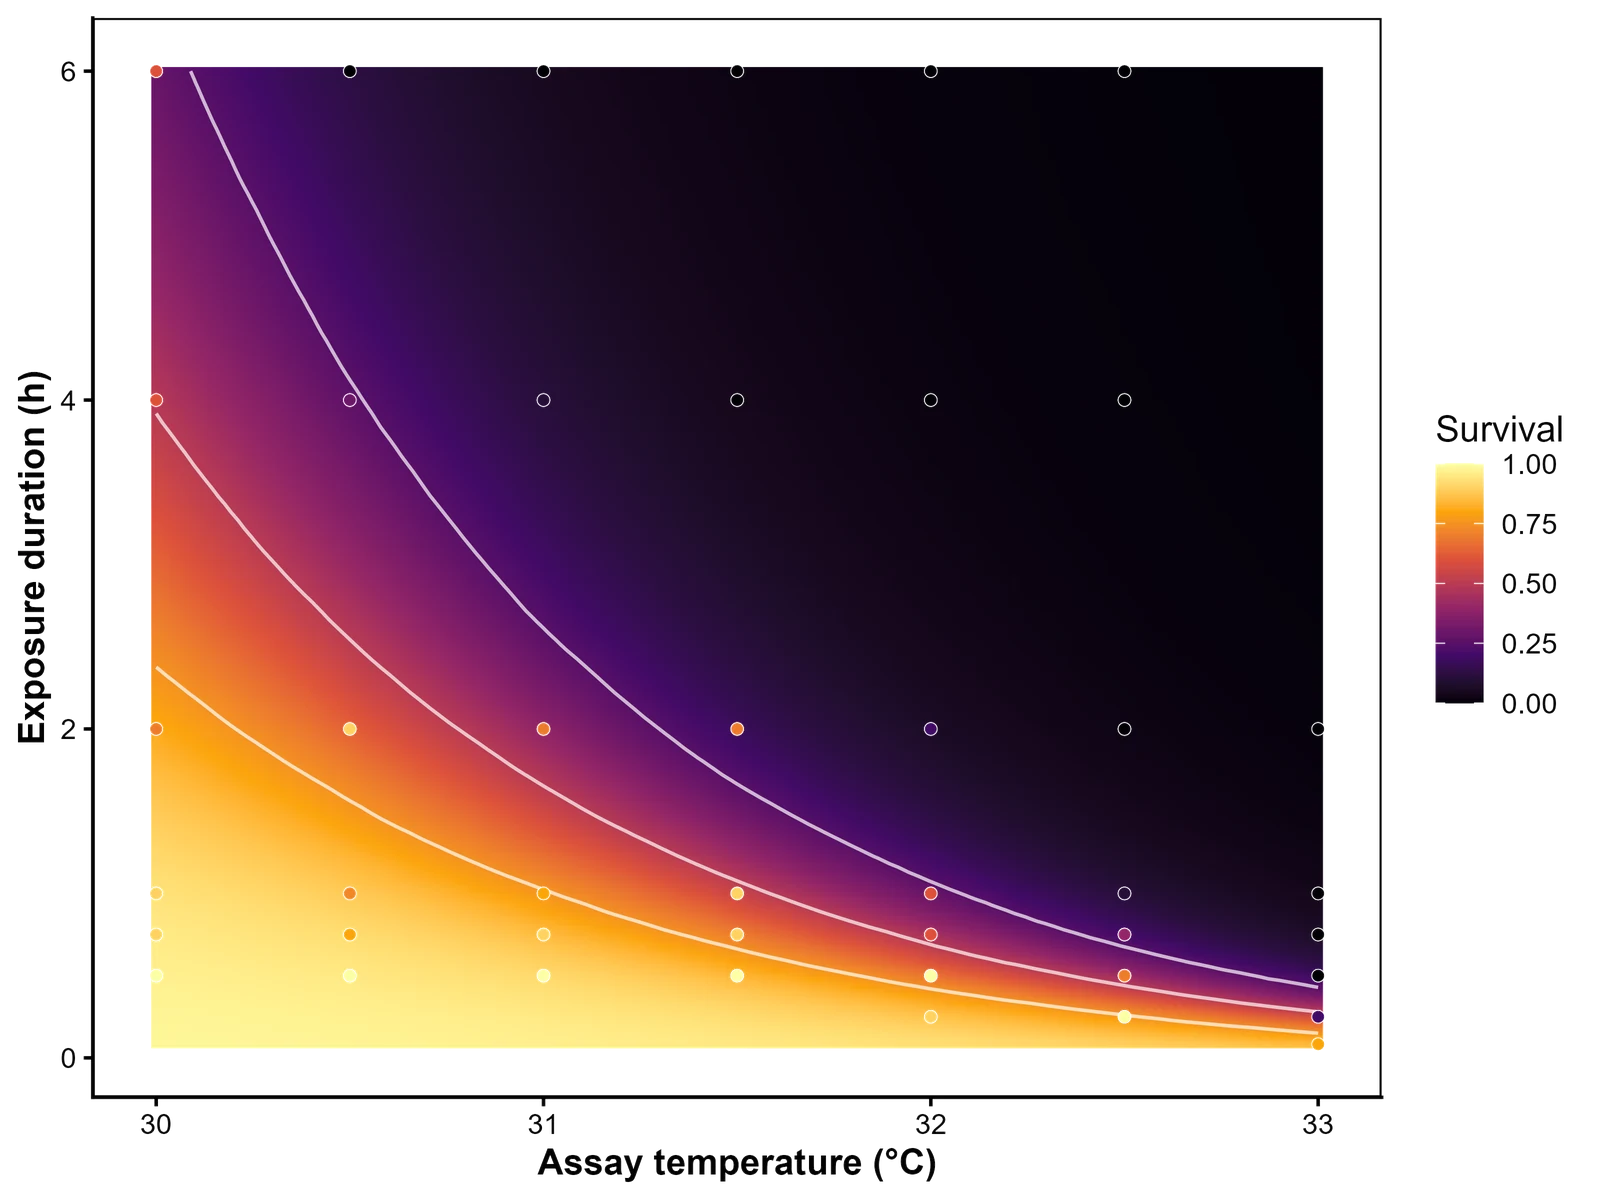
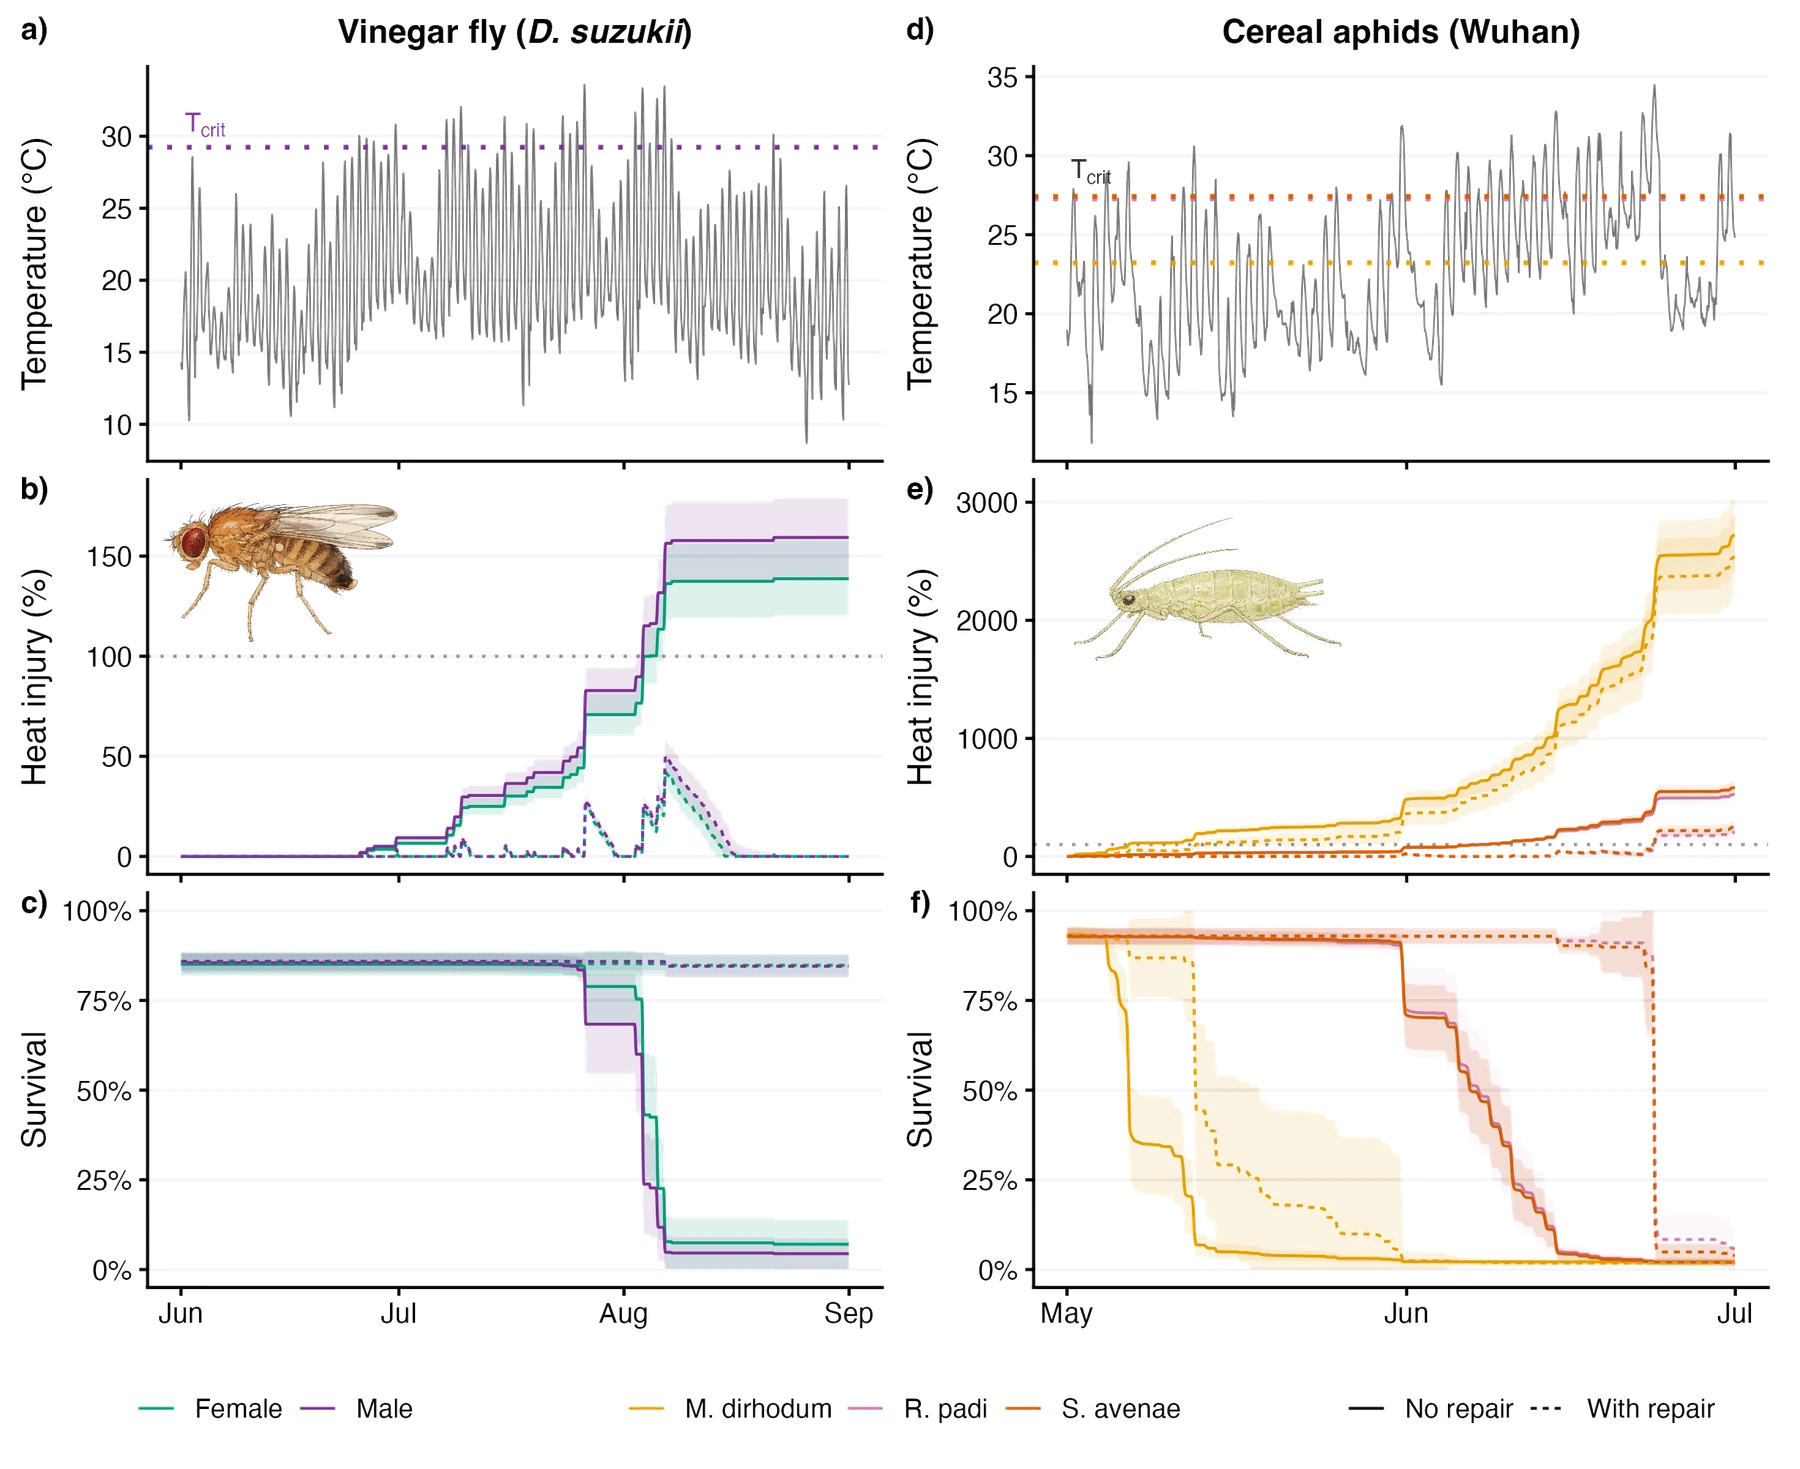
New header photos from full-res albums (goanna on ledge, broad-headed snake, wide leaf frog, Alice Springs dragon, Panama grasshopper); header-to-text spacing equalised on all 400px bands; Software: bayesTLS and freqTLS first with the preprint's Figures 6 and 5, larger figures

diff --git a/src/content/site.ts b/src/content/site.ts
@@ -704,6 +704,43 @@ export type SoftwarePackage = {
  */
 export const SOFTWARE: SoftwarePackage[] = [
   {
+    // description: the repository's own one-line description on GitHub.
+    // Version and authors: https://CRAN.R-project.org/package=bayesTLS
+    // (1.0.0, published 2026-07-21). No hex sticker exists.
+    name: "bayesTLS",
+    description: "A flexible model for estimating thermal tolerance and sensitivity",
+    href: "https://daniel1noble.github.io/bayesTLS/",
+    github: "https://github.com/daniel1noble/bayesTLS",
+    cran: "https://CRAN.R-project.org/package=bayesTLS",
+    version: "1.0.0",
+    authors:
+      "Daniel W. A. Noble [aut, cre], Pieter A. Arnold [aut], Shinichi Nakagawa [aut], Patrice Pottier [aut]",
+    figure: {
+      src: "/images/figure-bayestls.webp",
+      alt: "Heat-injury accumulation and predicted survival under field temperature–time series, panels for a vinegar fly by sex and three cereal aphid species",
+    },
+  },
+  {
+    // description: the first sentence of the Description field on
+    // https://CRAN.R-project.org/package=freqTLS (0.1.0, published 2026-07-21),
+    // quoted as written. authors: the Author field of the same page; the
+    // package is written and maintained by Shinichi Nakagawa, not by the lab.
+    // No hex sticker exists.
+    name: "freqTLS",
+    description:
+      "A maximum-likelihood implementation of the thermal-load-sensitivity framework for thermal death-time modelling introduced by Noble, Arnold and Pottier in the 'bayesTLS' package, providing the frequentist counterpart to that Bayesian workflow.",
+    href: "https://itchyshin.github.io/freqTLS/",
+    github: "https://github.com/itchyshin/freqTLS",
+    cran: "https://CRAN.R-project.org/package=freqTLS",
+    version: "0.1.0",
+    authors:
+      "Shinichi Nakagawa [aut, cre, cph], Pieter A. Arnold [aut] (co-author of the bayesTLS framework), Patrice Pottier [aut] (co-author of the bayesTLS framework), Daniel W. A. Noble [aut] (senior author of the bayesTLS thermal-load-sensitivity framework)",
+    figure: {
+      src: "/images/figure-freqtls.webp",
+      alt: "Posterior densities of thermal sensitivity (z) and the critical thermal limit (CTmax) across four case studies",
+    },
+  },
+  {
     // description: the old Google Site, unchanged. Version and links:
     // https://CRAN.R-project.org/package=orchaRd and the repository.
     name: "orchaRd",
@@ -747,43 +784,6 @@ export const SOFTWARE: SoftwarePackage[] = [
     hex: "/images/hex-shinydigitise.png",
     video: "b9KvRsO8SPY",
     videoTitle: "ESMARConf2023: {shinyDigitise} tutorial",
-  },
-  {
-    // description: the repository's own one-line description on GitHub.
-    // Version and authors: https://CRAN.R-project.org/package=bayesTLS
-    // (1.0.0, published 2026-07-21). No hex sticker exists.
-    name: "bayesTLS",
-    description: "A flexible model for estimating thermal tolerance and sensitivity",
-    href: "https://daniel1noble.github.io/bayesTLS/",
-    github: "https://github.com/daniel1noble/bayesTLS",
-    cran: "https://CRAN.R-project.org/package=bayesTLS",
-    version: "1.0.0",
-    authors:
-      "Daniel W. A. Noble [aut, cre], Pieter A. Arnold [aut], Shinichi Nakagawa [aut], Patrice Pottier [aut]",
-    figure: {
-      src: "/images/figure-bayestls.webp",
-      alt: "Thermal death-time landscape: predicted survival shaded across assay temperature and exposure duration, with fitted contour lines and observed points",
-    },
-  },
-  {
-    // description: the first sentence of the Description field on
-    // https://CRAN.R-project.org/package=freqTLS (0.1.0, published 2026-07-21),
-    // quoted as written. authors: the Author field of the same page; the
-    // package is written and maintained by Shinichi Nakagawa, not by the lab.
-    // No hex sticker exists.
-    name: "freqTLS",
-    description:
-      "A maximum-likelihood implementation of the thermal-load-sensitivity framework for thermal death-time modelling introduced by Noble, Arnold and Pottier in the 'bayesTLS' package, providing the frequentist counterpart to that Bayesian workflow.",
-    href: "https://itchyshin.github.io/freqTLS/",
-    github: "https://github.com/itchyshin/freqTLS",
-    cran: "https://CRAN.R-project.org/package=freqTLS",
-    version: "0.1.0",
-    authors:
-      "Shinichi Nakagawa [aut, cre, cph], Pieter A. Arnold [aut] (co-author of the bayesTLS framework), Patrice Pottier [aut] (co-author of the bayesTLS framework), Daniel W. A. Noble [aut] (senior author of the bayesTLS thermal-load-sensitivity framework)",
-    figure: {
-      src: "/images/figure-freqtls.webp",
-      alt: "Fitted survival probability against exposure duration for a range of temperatures, for sensitive and tolerant groups",
-    },
   },
 ];
 

diff --git a/src/pages/Opportunities.tsx b/src/pages/Opportunities.tsx
@@ -15,22 +15,30 @@ export default function Opportunities() {
 
   return (
     <>
-      {/* Not the sleepy lizard: all three frames of that animal on this site
-          (bg-opportunities-sleepy-lizard, gallery-field-23, gallery-field-28)
-          catch it mid-gape with the tongue out, which read as a threat display
-          beside a headline inviting students to apply. This band is a crop of
-          gallery-field-25-pygmy-bluetongue.jpg (the site captions it "Pygmy
-          Bluetongue", "A small lizard resting in an open hand"), cut to
-          1200x370 with the head at 61% of the width, so the face sits well
-          right of the h1. x only bites below ~1024px, y only above it. */}
+      {/* An insect this time, not another lizard: a grasshopper from the Panama
+          album (2006-06-18 15.00.00, 2304x1728), black with orange edging on a
+          pale branch against sunlit green - the strongest tonal contrast of any
+          invertebrate frame in the local albums, which matters because this band
+          renders very pale. 2304px is the widest any insect frame gets: the four
+          albums that shoot larger (Alice Springs, both Morton parks, Fowler's
+          Gap) hold no insect that works here - their best, a mantid at
+          2848x4288, is vertical and cannot fit a 3.6:1 band.
+          Cut from the left 2160x600px of the native file - the band's own 3.6:1 -
+          so the whole animal lands in frame, antennae to hind foot, with the head
+          at 73% across. The band is deepened from 320 to the 400px the other four
+          photographic heroes use, because at 320 the band's slice is shorter than
+          the insect and clips it top and bottom. y is inert at this ratio; x
+          steers phones. */}
       <PageHero
         eyebrow="Join us"
         title="Join the Lab!"
-        image="/images/bg-opportunities-pygmy-bluetongue.jpg"
-        imagePosition="67% 50%"
+        image="/images/bg-opportunities-grasshopper.jpg"
+        imageOpacity={0.85}
+        imagePosition="79% 50%"
+        height="min-h-[400px]"
       />
 
-      <Container className="pb-16 pt-8">
+      <Container className="relative -mt-20 pb-16 pt-0">
         <Reveal>
           <div className="prose-dark max-w-3xl">
             {JOIN.intro.map((p) => (

diff --git a/src/pages/Software.tsx b/src/pages/Software.tsx
@@ -93,7 +93,7 @@ function PackageCard({ pkg, accent }: { pkg: SoftwarePackage; accent: string }) 
               alt={pkg.figure.alt}
               loading="lazy"
               decoding="async"
-              className="max-h-[22rem] w-auto max-w-full object-contain"
+              className="max-h-[30rem] w-auto max-w-full object-contain"
             />
           </a>
         )}
@@ -123,18 +123,22 @@ export default function Software() {
         eyebrow="Software"
         title="Software"
         lead={SOFTWARE_INTRO}
-        image="/images/bg-software-green-snake-hires.jpg"
-        /* Green snake with a small lizard on a leaf. Re-cut from the sharper of the two
-           variants of this scene (photos_10 measures a Laplacian variance of 451 over the
-           snake's head against 88 for photos_20) at native pixels, 1500px wide, so the band
-           never upscales it. The crop puts the head at about 76% across, whole and well
-           right of the title; y steers the desktop band, x steers phones. */
-        imagePosition="85% 42%"
-        imageOpacity={0.85}
+        image="/images/bg-software-broad-headed-snake.jpg"
+        /* The green snake was soft even in its sharpest frame, so it is replaced by a
+           broad-headed snake from Morton National Park (2010-07-05 05.51.43, 3888x2592),
+           which is tack sharp and carries far more contrast for a band this pale: a black
+           body banded in yellow on flat grey ground. Cut from the left 3600x1000px of the
+           native file - the band's own 3.6:1 - so the whole coil lands in frame, running
+           from about 30% to 86% across with the flattened head at 82%, right of the title
+           and above the bottom fade. Opacity is 0.95 rather than 0.85 because at 0.85 the
+           bands on the body dissolved into the grey ground. y is inert at this ratio; x
+           steers phones. */
+        imagePosition="82% 50%"
+        imageOpacity={0.95}
         height="min-h-[400px]"
       />
 
-      <Container className="pb-16 pt-8">
+      <Container className="pb-16 pt-4">
         <div className="space-y-6">
           {SOFTWARE.map((pkg, i) => (
             <Reveal key={pkg.name} delay={i * 0.08}>

diff --git a/src/pages/Research.tsx b/src/pages/Research.tsx
@@ -188,18 +188,20 @@ export default function Research() {
       <PageHero
         eyebrow="Research"
         title="What we do?"
-        image="/images/bg-research-goanna-right.jpg"
-        /* Sand monitor under a red rock overhang, cut down from the full frame to the
-           left 1440px at native pixels so the animal reads roughly 1.4x larger and most
-           of the empty rock is gone. Its head lands just right of the title at about
-           40-53% across; it cannot go further right without upscaling, because the head
-           already sits only a third of the way into the source frame. */
-        imageOpacity={0.8}
-        imagePosition="70% 0%"
+        image="/images/bg-research-goanna-ledge.jpg"
+        /* A different Alice Springs monitor (2010-05-29 20.07.05, 4288x2848): this one
+           lies along a sandstone ledge in full side profile with its head already at the
+           right of the frame, which the overhang frame never allowed. Cut from the left
+           3700x1028px of the native file - a 3.6:1 slice, the banner's own ratio, so the
+           whole crop lands in the band and nothing is scaled up. The lizard runs the full
+           width of the band with the eye at 72% and the snout at about 85% across, well
+           clear of the title. y is inert at this ratio; x steers phones. */
+        imageOpacity={0.85}
+        imagePosition="81% 50%"
         height="min-h-[400px]"
       />
 
-      <Container className="pb-16 pt-8">
+      <Container className="relative -mt-20 pb-16 pt-0">
         {/* The introduction and the animals it describes, side by side from
             the large breakpoint up and stacked below it. */}
         <div className="grid items-center gap-10 lg:grid-cols-[minmax(0,1.05fr)_minmax(0,1fr)] lg:gap-14">

diff --git a/src/pages/Gallery.tsx b/src/pages/Gallery.tsx
@@ -488,18 +488,21 @@ export default function Gallery() {
       <PageHero
         eyebrow="Gallery"
         title="Research photos"
-        image="/images/bg-gallery-painted-dragon-right.jpg"
-        /* Painted dragon on a weathered log. The source is portrait 1536x2048, so the
-           widest crop that never upscales is barely a band wide: taking the left 1440px
-           pushes the dragon as far right as the pixels allow, head at about 50-64% across
-           with only log and sand behind the title. The band is deepened to 400px so the
-           head, forelegs and shoulders all clear the fixed header. */
-        imageOpacity={0.85}
-        imagePosition="30% 37%"
+        image="/images/bg-gallery-dragon-rock.jpg"
+        /* The painted-dragon frame was portrait and only 1536px wide, which capped the
+           head at about 64% across; it is replaced by a landscape dragon from Alice
+           Springs (2010-05-29 18.24.30, 4288x2848). Cut from the left 3700x1028px of the
+           native file - the band's own 3.6:1 - which puts the eye at 78% and the snout at
+           about 88% across, well right of the title and clear of the fixed header. The
+           frame is a pale lizard on pale rock, so opacity is 1 rather than 0.85: the head
+           and eye read, the body behind them stays faint and there is no crop of this
+           animal that fixes that. y is inert at this ratio; x steers phones. */
+        imageOpacity={1}
+        imagePosition="87% 50%"
         height="min-h-[400px]"
       />
 
-      <Container className="pt-8 pb-16">
+      <Container className="relative -mt-20 pb-16 pt-0">
         <div className="space-y-20">
           {GALLERY.map((section, s) => {
             const gridId = `${slug(section.section)}-photos`;

diff --git a/src/pages/Publications.tsx b/src/pages/Publications.tsx
@@ -311,18 +311,21 @@ export default function Publications() {
       <PageHero
         eyebrow="Publications"
         title="Papers and preprints"
-        image="/images/bg-publications-leaf-frog-right.jpg"
-        /* Camouflaged frog on a leaf, cropped at native pixels so the frog moves off the
-           title and fills the space to its right: it runs from about 49% to 94% across,
-           head and eye at the far right. The crop is 1600px wide rather than 1440 so the
-           1.09 slow-zoom does not push the head off the right edge. y steers the desktop
-           band, x steers phones. */
+        image="/images/bg-publications-leaf-frog-wide.jpg"
+        /* Camouflaged frog on a leaf. Daniel asked (29 Aug 2026) for more frog and less
+           leaf, and the old 1800px crop could not give it: the band only ever shows a
+           3.6:1 slice, and in that crop the frog was taller than the slice, so raising y
+           traded head for haunches. Re-cut wider from the 2304x1728 original instead
+           (left 2100x583px, the band's own 3.6:1), which shrinks the frog against the
+           frame and lets far more of it through - head, eye, speckled back and flank now
+           fill the band from just under the header down to the bottom fade, with the eye
+           at 76% across. y is inert at this ratio; x steers phones. */
         imageOpacity={0.85}
-        imagePosition="100% 20%"
+        imagePosition="86% 50%"
         height="min-h-[400px]"
       />
 
-      <Container className="pb-14 pt-6">
+      <Container className="relative -mt-20 pb-14 pt-0">
         {/* ------------------------------------------------------ highlights */}
         {highlights.length > 0 && (
           <section className="mb-16">

diff --git a/src/pages/Teaching.tsx b/src/pages/Teaching.tsx
@@ -19,7 +19,7 @@ export default function Teaching() {
         height="min-h-[400px]"
       />
 
-      <Container className="pb-16 pt-8">
+      <Container className="relative -mt-20 pb-16 pt-0">
         <Reveal>
           <div className="prose-dark max-w-3xl">
             {intro.map((p) => (
